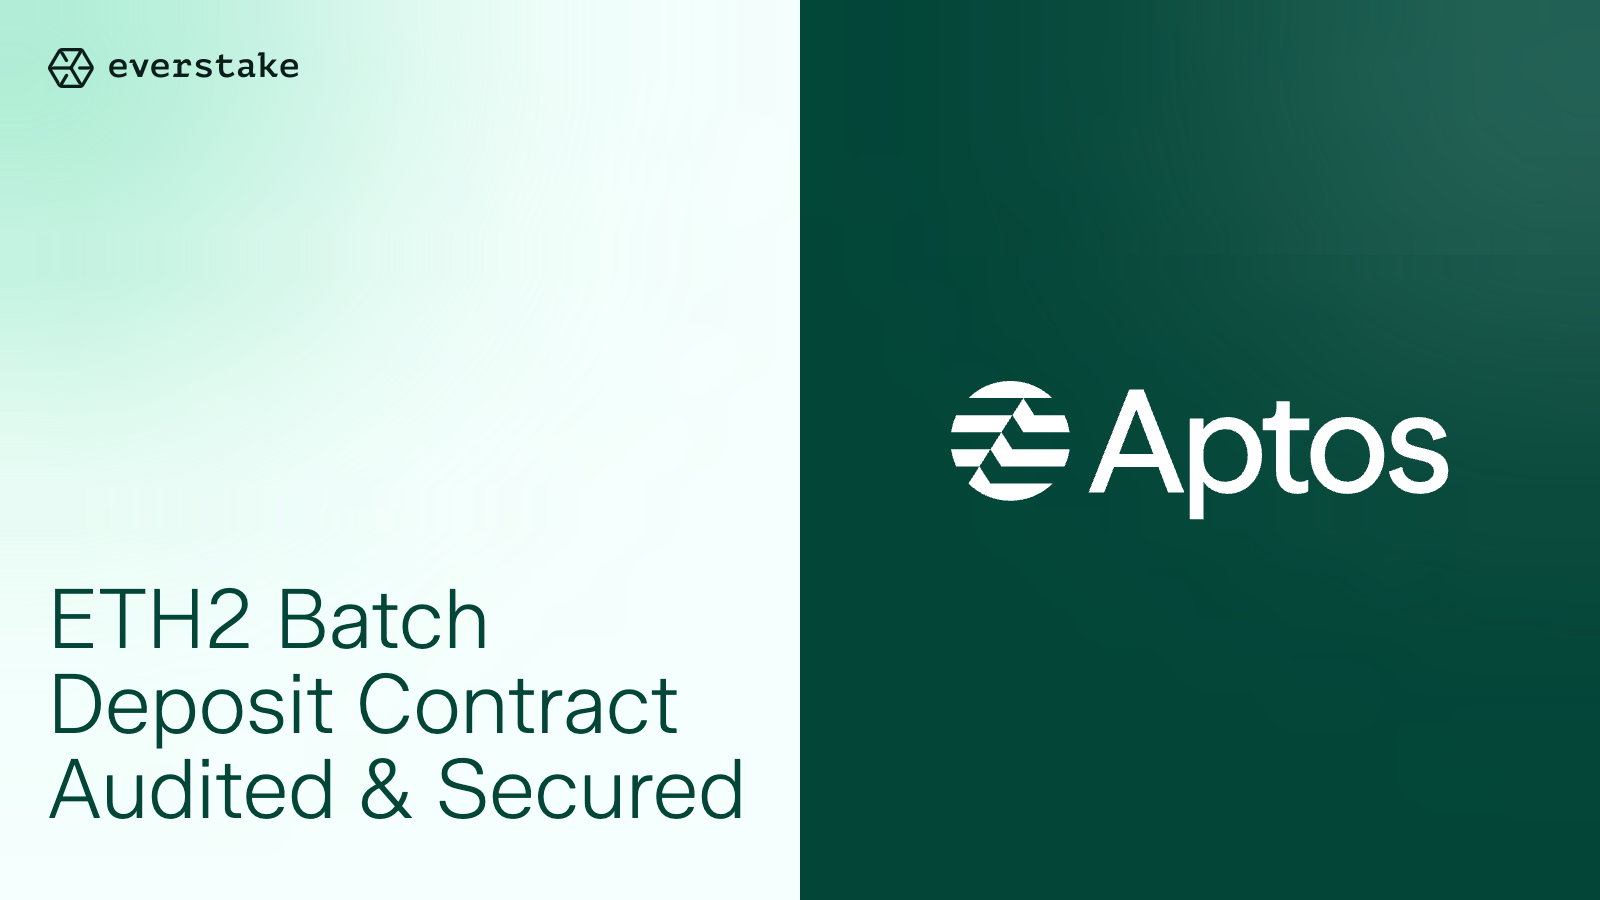
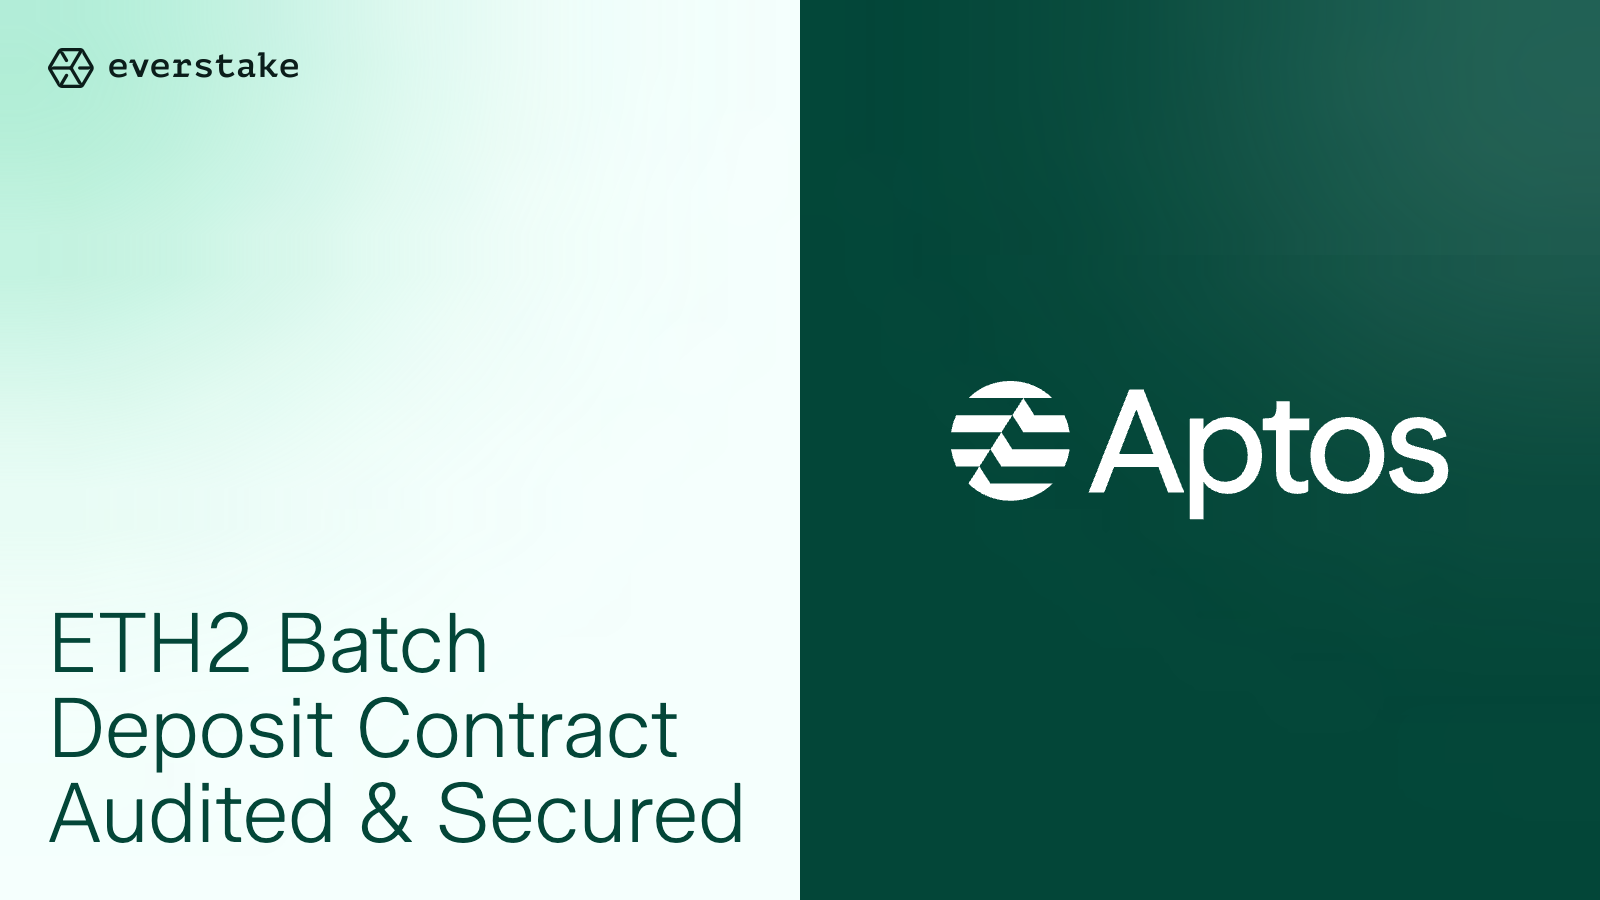
Fix text alignment: titles now bottom-aligned in all templates
- All title containers use flex-end to anchor text to bottom
- Short text (2 words) stays at same bottom position as long text
- Centered templates (1-4, 12) keep justify-content:center
- Regenerated all 21 preview images
- Added feedback memory for this rule

Changed region(s): [[0.0312, 0.6533, 0.4688, 0.9333]]

diff --git a/src/templates/templates.js b/src/templates/templates.js
@@ -228,7 +228,7 @@ function typeAPR({ title, subtitle, partnerLogo }) {
       ${subtitle ? `<div style="position:absolute;left:82px;top:513px;z-index:5;font-weight:500;font-size:44px;color:#7b9690;">${subtitle}</div>` : ''}
 
       <!-- Title: Figma x=82 y=586, 112px, weight 250, max-width 810px -->
-      <div id="title-container" style="position:absolute;left:82px;top:586px;width:810px;height:272px;z-index:5;">
+      <div id="title-container" style="position:absolute;left:82px;top:586px;width:810px;height:272px;z-index:5;display:flex;flex-direction:column;justify-content:flex-end;">
         <div id="title" style="font-weight:200;font-size:112px;line-height:1.04;color:#034638;">${title}</div>
       </div>
 
@@ -401,7 +401,7 @@ function template5({ title, subtitle, partnerLogo }) {
       ${subtitle ? `<div style="position:absolute;left:56px;top:580px;z-index:5;font-weight:500;font-size:20px;letter-spacing:0.1em;text-transform:uppercase;">${subtitle}</div>` : ''}
 
       <!-- Title: x=56 y=644, 96px w200, max-width 700px with auto-fit -->
-      <div id="title-container" style="position:absolute;left:56px;top:644px;width:700px;height:220px;z-index:5;">
+      <div id="title-container" style="position:absolute;left:56px;top:644px;width:700px;height:220px;z-index:5;display:flex;flex-direction:column;justify-content:flex-end;">
         <div id="title" style="font-weight:200;font-size:96px;line-height:1.04;">${title}</div>
       </div>
 
@@ -452,7 +452,7 @@ function template6({ title, subtitle, partnerLogo }) {
       ${subtitle ? `<div style="position:absolute;left:856px;top:521px;z-index:5;font-weight:500;font-size:20px;letter-spacing:0.1em;text-transform:uppercase;">${subtitle}</div>` : ''}
 
       <!-- Title: x=856 y=577, 86px w200, max-width 688px with auto-fit -->
-      <div id="title-container" style="position:absolute;left:856px;top:577px;width:688px;height:280px;z-index:5;">
+      <div id="title-container" style="position:absolute;left:856px;top:577px;width:688px;height:280px;z-index:5;display:flex;flex-direction:column;justify-content:flex-end;">
         <div id="title" style="font-weight:200;font-size:86px;line-height:1.08;">${title}</div>
       </div>
     </div>
@@ -486,7 +486,7 @@ function template7({ title, subtitle, partnerLogo }) {
       ${subtitle ? `<div style="position:absolute;left:48px;top:494px;z-index:5;font-weight:500;font-size:28px;color:#f5fffd;">${subtitle}</div>` : ''}
 
       <!-- Title: x=48 y=560, 140px w250, white, auto-fit -->
-      <div id="title-container" style="position:absolute;left:48px;top:560px;width:700px;height:300px;z-index:5;">
+      <div id="title-container" style="position:absolute;left:48px;top:560px;width:700px;height:300px;z-index:5;display:flex;flex-direction:column;justify-content:flex-end;">
         <div id="title" style="font-weight:200;font-size:140px;line-height:1.04;color:#f5fffd;">${title}</div>
       </div>
 
@@ -531,7 +531,7 @@ function template8({ title, subtitle, partnerLogo }) {
       ${subtitle ? `<div style="position:absolute;left:48px;top:530px;z-index:5;font-weight:500;font-size:20px;letter-spacing:0.1em;text-transform:uppercase;">${subtitle}</div>` : ''}
 
       <!-- Title: x=48 y=576, 88px, auto-fit -->
-      <div id="title-container" style="position:absolute;left:48px;top:576px;width:704px;height:280px;z-index:5;">
+      <div id="title-container" style="position:absolute;left:48px;top:576px;width:704px;height:280px;z-index:5;display:flex;flex-direction:column;justify-content:flex-end;">
         <div id="title" style="font-weight:200;font-size:88px;line-height:1.04;">${title}</div>
       </div>
 
@@ -596,7 +596,7 @@ function template10({ title, partnerLogo }) {
       <img src="${everstakeLogo}" style="position:absolute;top:90px;left:82px;height:40px;z-index:10;" />
 
       <!-- Title: x=82 y=544, 132px, white, auto-fit -->
-      <div id="title-container" style="position:absolute;left:82px;top:544px;width:663px;height:274px;z-index:5;">
+      <div id="title-container" style="position:absolute;left:82px;top:544px;width:663px;height:274px;z-index:5;display:flex;flex-direction:column;justify-content:flex-end;">
         <div id="title" style="font-weight:200;font-size:132px;line-height:1.04;">${title}</div>
       </div>
 
@@ -628,7 +628,7 @@ function template11({ title, subtitle, partnerLogo1, partnerLogo2, partnerLogo3 
       <img src="${bgSrc}" style="position:absolute;top:0;left:0;width:1600px;height:900px;z-index:0;" />
 
       <!-- Title: x=82 y=478, 86px -->
-      <div id="title-container" style="position:absolute;left:82px;top:478px;width:810px;height:267px;z-index:5;">
+      <div id="title-container" style="position:absolute;left:82px;top:478px;width:810px;height:267px;z-index:5;display:flex;flex-direction:column;justify-content:flex-end;">
         <div id="title" style="font-weight:200;font-size:86px;line-height:1.08;">${title}</div>
       </div>
 
@@ -677,7 +677,7 @@ function template12({ title, subtitle, partnerLogo1, partnerLogo2, partnerLogo3 
       <img src="${bgSrc}" style="position:absolute;top:0;left:0;width:1600px;height:900px;z-index:0;" />
 
       <!-- Title: x=82 y=478, 86px, white -->
-      <div id="title-container" style="position:absolute;left:82px;top:478px;width:810px;height:267px;z-index:5;">
+      <div id="title-container" style="position:absolute;left:82px;top:478px;width:810px;height:267px;z-index:5;display:flex;flex-direction:column;justify-content:flex-end;">
         <div id="title" style="font-weight:200;font-size:86px;line-height:1.08;">${title}</div>
       </div>
 
@@ -738,7 +738,7 @@ function template13({ title, subtitle, partnerLogo, cryptoIcon }) {
       ${subtitle ? `<div style="position:absolute;left:82px;top:468px;z-index:5;font-weight:500;font-size:22px;letter-spacing:0.05em;">${subtitle}</div>` : ''}
 
       <!-- Title: x=82 y=518, 96px, auto-fit -->
-      <div id="title-container" style="position:absolute;left:82px;top:518px;width:654px;height:300px;z-index:5;">
+      <div id="title-container" style="position:absolute;left:82px;top:518px;width:654px;height:300px;z-index:5;display:flex;flex-direction:column;justify-content:flex-end;">
         <div id="title" style="font-weight:200;font-size:96px;line-height:1.04;">${title}</div>
       </div>
 
@@ -782,7 +782,7 @@ function template14({ title, subtitle, partnerLogo }) {
       ${subtitle ? `<div style="position:absolute;left:855px;top:470px;z-index:5;font-weight:500;font-size:20px;letter-spacing:0.1em;text-transform:uppercase;">${subtitle}</div>` : ''}
 
       <!-- Title: x=855 y=526, 96px, auto-fit -->
-      <div id="title-container" style="position:absolute;left:855px;top:526px;width:655px;height:300px;z-index:5;">
+      <div id="title-container" style="position:absolute;left:855px;top:526px;width:655px;height:300px;z-index:5;display:flex;flex-direction:column;justify-content:flex-end;">
         <div id="title" style="font-weight:200;font-size:96px;line-height:1.04;">${title}</div>
       </div>
     </div>
@@ -809,7 +809,7 @@ function template15({ title, subtitle, partnerLogo }) {
       <img src="${everstakeLogo}" style="position:absolute;top:90px;left:82px;height:40px;z-index:10;" />
 
       <!-- Title: x=82 y=493, 83px, auto-fit -->
-      <div id="title-container" style="position:absolute;left:82px;top:493px;width:663px;height:258px;z-index:5;">
+      <div id="title-container" style="position:absolute;left:82px;top:493px;width:663px;height:258px;z-index:5;display:flex;flex-direction:column;justify-content:flex-end;">
         <div id="title" style="font-weight:200;font-size:83px;line-height:1.04;">${title}</div>
       </div>
 
@@ -860,7 +860,7 @@ function template16({ title, partnerLogo, cryptoIcon }) {
       </div>
 
       <!-- Title: x=855 y=530, 92px, auto-fit -->
-      <div id="title-container" style="position:absolute;left:855px;top:530px;width:647px;height:288px;z-index:5;">
+      <div id="title-container" style="position:absolute;left:855px;top:530px;width:647px;height:288px;z-index:5;display:flex;flex-direction:column;justify-content:flex-end;">
         <div id="title" style="font-weight:200;font-size:92px;line-height:1.04;">${title}</div>
       </div>
     </div>
@@ -884,7 +884,7 @@ function template17({ title, partnerLogo1, partnerLogo2 }) {
       <img src="${bgSrc}" style="position:absolute;top:0;left:0;width:1600px;height:900px;z-index:0;" />
 
       <!-- Title: x=82 y=418, 96px, auto-fit -->
-      <div id="title-container" style="position:absolute;left:82px;top:418px;width:810px;height:400px;z-index:5;">
+      <div id="title-container" style="position:absolute;left:82px;top:418px;width:810px;height:400px;z-index:5;display:flex;flex-direction:column;justify-content:flex-end;">
         <div id="title" style="font-weight:200;font-size:96px;line-height:1.04;">${title}</div>
       </div>
 
@@ -953,7 +953,7 @@ function template18({ title, subtitle, partnerLogo1, partnerLogo2 }) {
       ${subtitle ? `<div style="position:absolute;left:48px;top:379px;z-index:5;font-weight:500;font-size:40px;color:#7b9690;">${subtitle}</div>` : ''}
 
       <!-- Title: x=48 y=448, 96px, white, auto-fit -->
-      <div id="title-container" style="position:absolute;left:48px;top:448px;width:884px;height:400px;z-index:5;">
+      <div id="title-container" style="position:absolute;left:48px;top:448px;width:884px;height:400px;z-index:5;display:flex;flex-direction:column;justify-content:flex-end;">
         <div id="title" style="font-weight:200;font-size:96px;line-height:1.04;color:#f5fffd;">${title}</div>
       </div>
 

diff --git a/src/renderer.js b/src/renderer.js
@@ -42,19 +42,18 @@ async function renderBanner(templateId, params) {
     const maxW = container.offsetWidth;
     let fontSize = parseInt(window.getComputedStyle(title).fontSize) || 111;
 
-    // Temporarily remove flex centering to get true scroll dimensions
+    // Temporarily set to flex-start to measure true content height
     const origJustify = container.style.justifyContent;
     container.style.justifyContent = 'flex-start';
 
     while (fontSize > 40) {
       title.style.fontSize = fontSize + 'px';
-      // Force reflow
       void title.offsetHeight;
       if (container.scrollHeight <= maxH && title.scrollWidth <= maxW) break;
       fontSize -= 2;
     }
 
-    // Restore centering
+    // Restore alignment (flex-end for bottom-aligned, center for centered)
     container.style.justifyContent = origJustify;
   });
 
